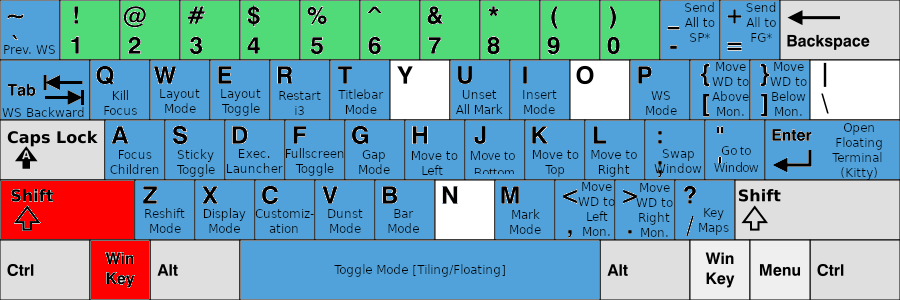
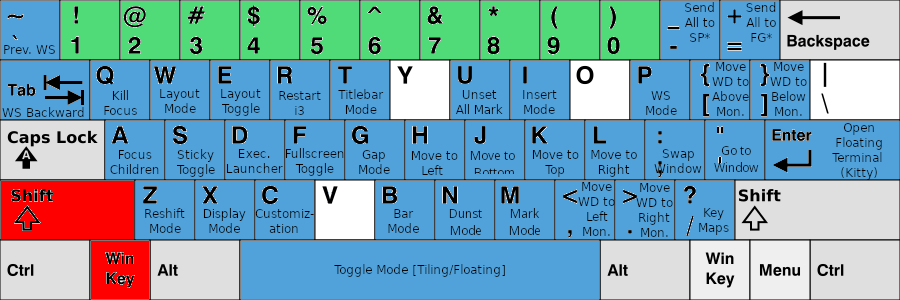
update

Changed region(s): [[0.4667, 0.6, 0.6222, 0.81], [0.3422, 0.6, 0.4356, 0.81]]

diff --git a/README.md b/README.md
@@ -182,7 +182,8 @@ Created by [gh-md-toc](https://github.com/ekalinin/github-markdown-toc)
 
 - i3 has a built-in mode function that overwrites current keybinding with preset mode keybinding
 - When i3 mode is on, mode keybinding instruction shows on the i3 status bar
-- Press the `[Esc]` or `[Ctrl]`+`[[]` (vim-style escape) to exit mode
+- Press `[Esc]` or `[Ctrl]`+`[[]` (vim-style escape) to exit mode
+- Press `[Enter]` to go to the last level of mode and exit mode if it is already the last one
 - This part configuration can be found in
     - `./config/i3/configs/i3_mode.config`
     - `./config/i3/configs/i3_custom.config`
@@ -203,7 +204,7 @@ Created by [gh-md-toc](https://github.com/ekalinin/github-markdown-toc)
     - Deal with dual monitor, e.g. joint monitor, mirror monitor
 - __Redshift Mode (`[Winkey]` + `[Shift]` + `[z]`)__
     - Screen color temperature tuner
-- __Dunst Mode (`[Winkey]` + `[Shift]` + `[v]`)__
+- __Dunst Mode (`[Winkey]` + `[Shift]` + `[n]`)__
     - Dunst actions, including stopping or resuming dunst
 - __Mouse Mode (`[Ctrl]` + `[Alt]` + `[m]`)__
     - Mouse emulator using keyboard, e.g. move, left/right click, cursor auto-hide
